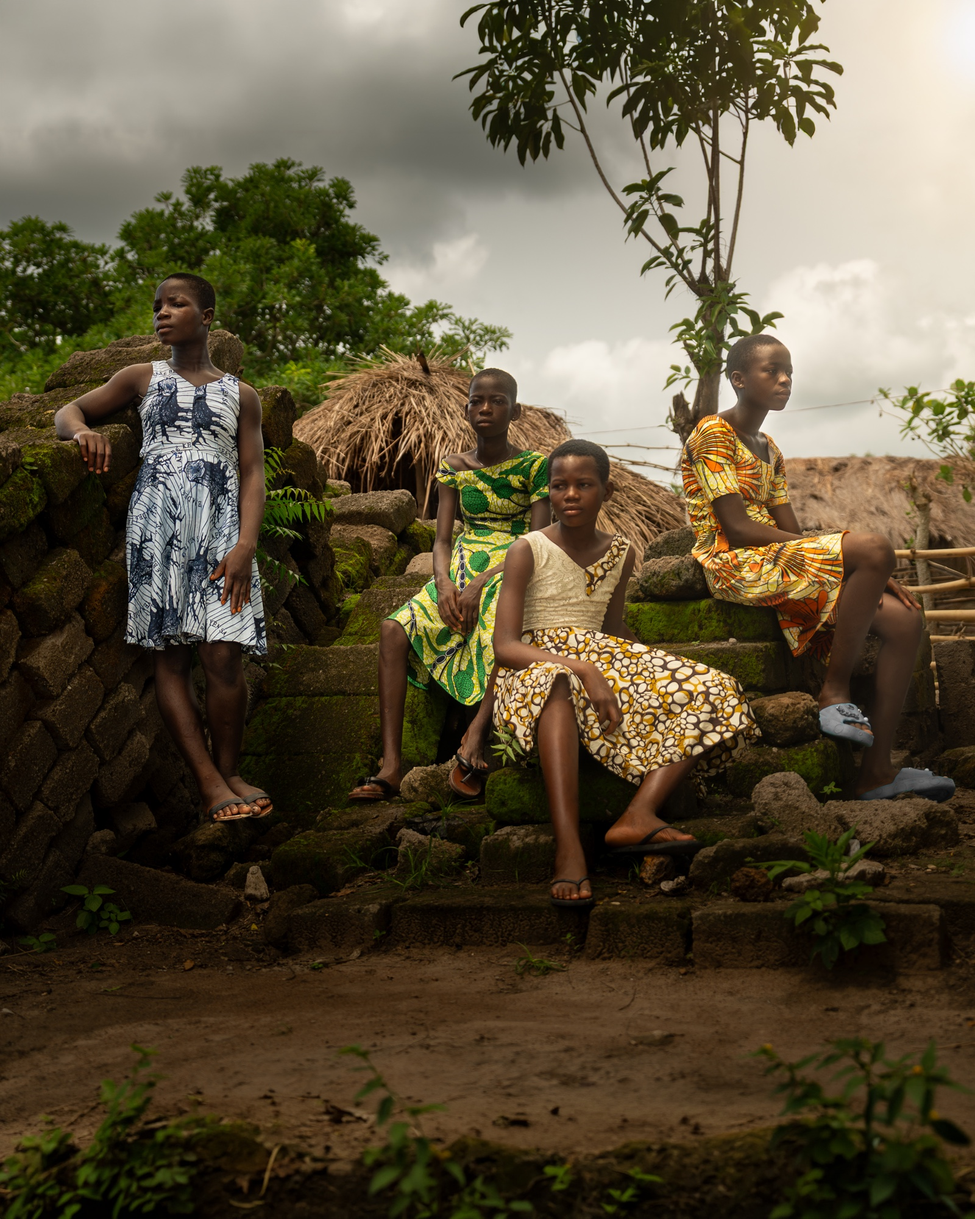
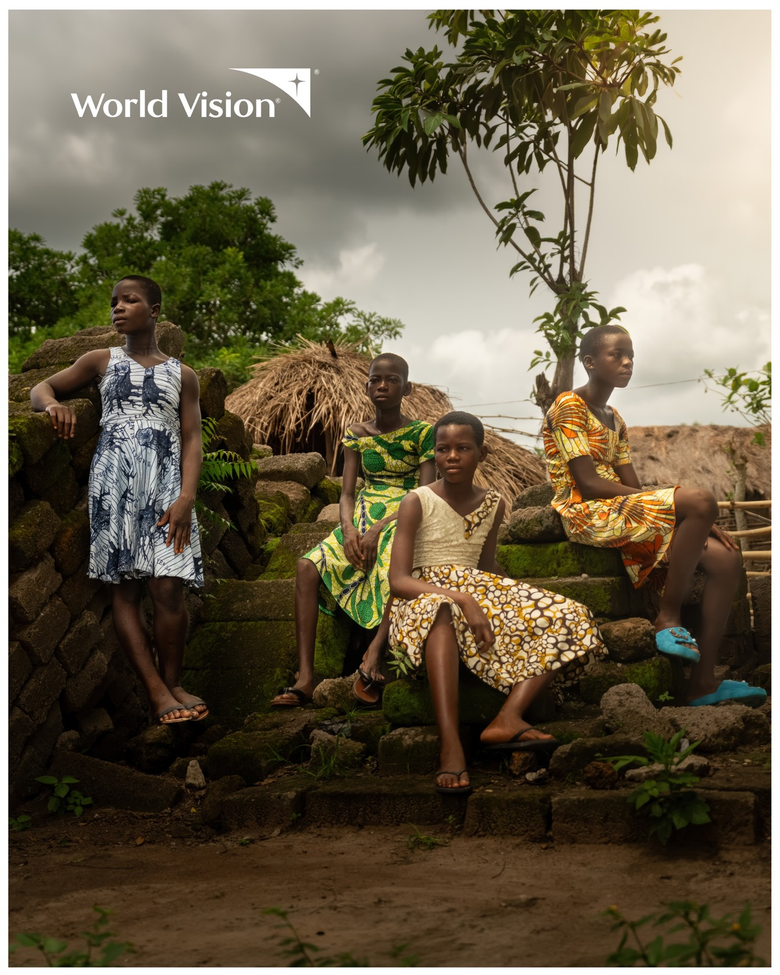
Update World Vision Ghana home page grid image
Newer export of the same shot, now with the World Vision logo
watermark; alt text updated to reflect it.

diff --git a/src/lib/work.ts b/src/lib/work.ts
@@ -65,7 +65,7 @@ export const workProjects: WorkProject[] = [
     },
     gridCover: {
       src: "/images/work/documentary-ghana/ghana-4x5-cover.jpg",
-      alt: "Four girls in patterned dresses seated on stone ruins under a stormy sky, Ghana",
+      alt: "Four girls in patterned dresses seated on stone ruins under a stormy sky, Ghana, with the World Vision logo",
     },
     gallery: [
       { src: "/images/work/documentary-ghana/documentary-ghana-03.jpg", alt: "Silhouette in a doorway, Ghana" },
